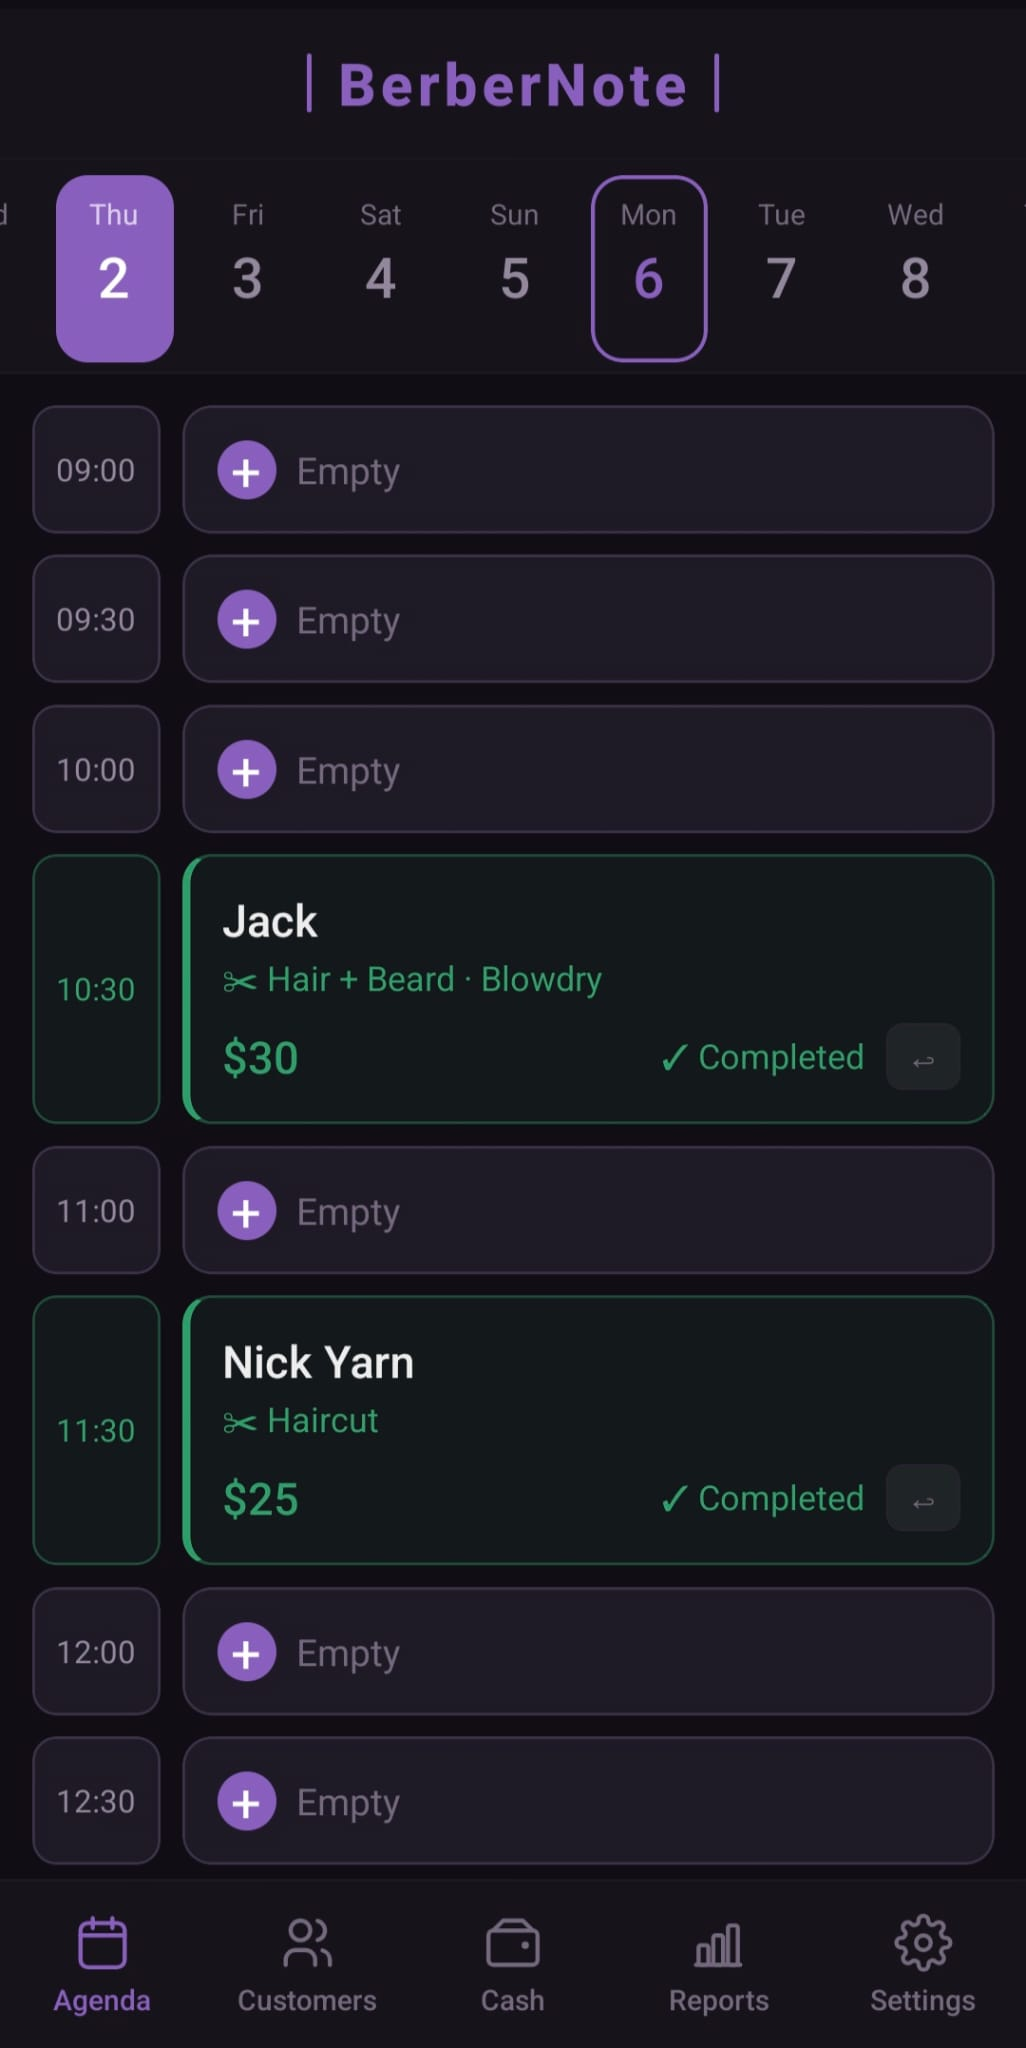
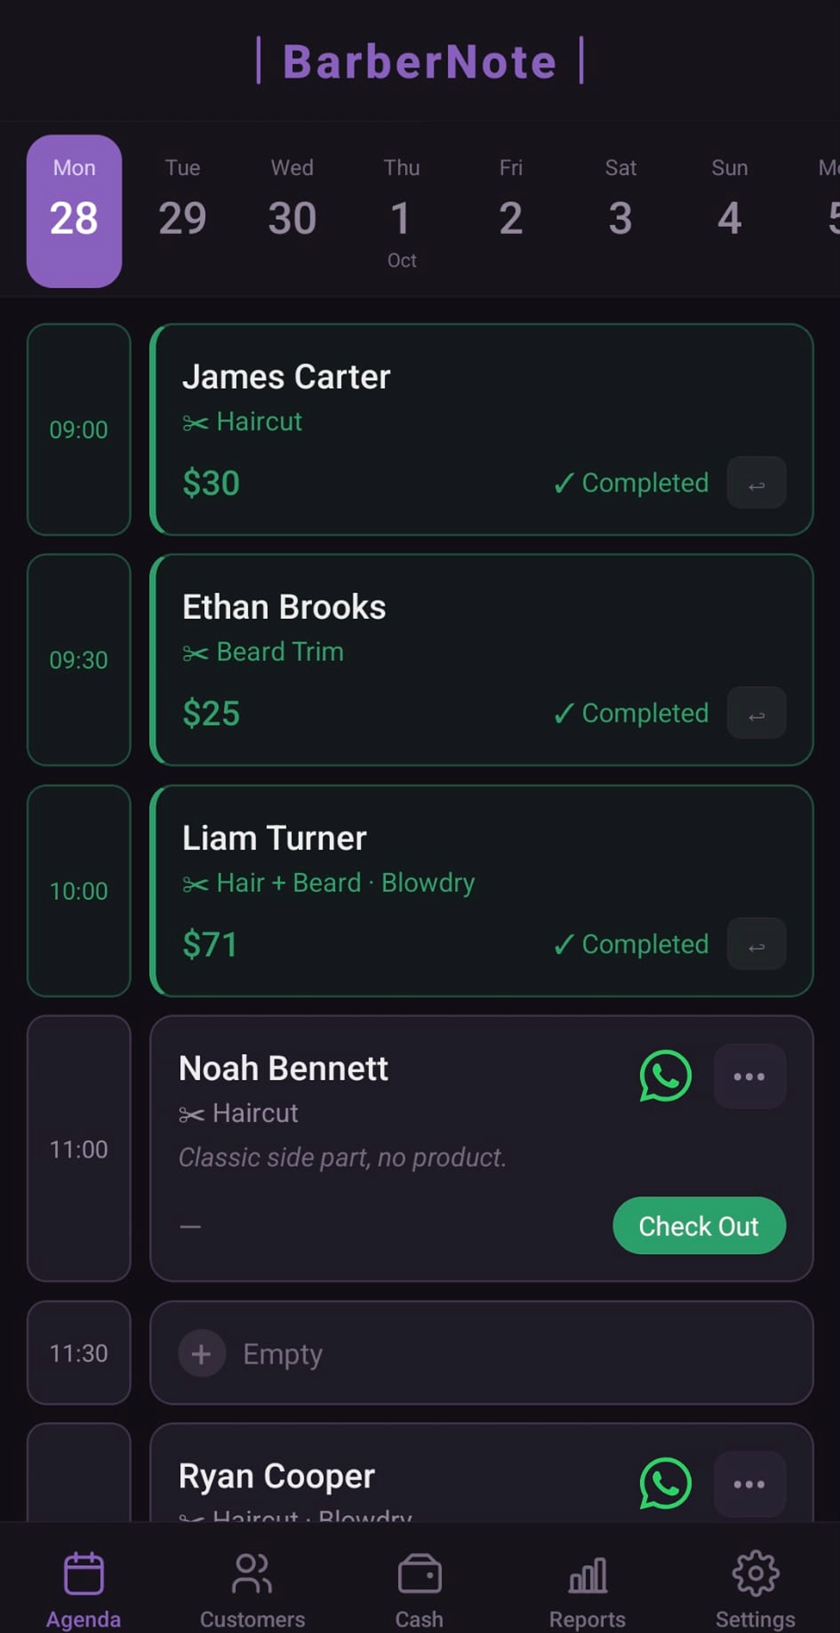
BarberNote page: refresh screenshots, update copy for 1.3
- New app screenshots (agenda, checkout, customers, cash, reports with monthly income chart)
- 15 -> 18 languages on home page
- Unlimited services with own price/duration, WhatsApp or SMS, call from agenda, per-day working hours, monthly income chart
- Removed 90-minute appointment cap from page and support FAQ

Claude-Session: https://claude.ai/code/session_01H7cTTGdX3x2RATAL4734Xr

diff --git a/barbernote/index.html b/barbernote/index.html
@@ -4,7 +4,7 @@
   <meta charset="UTF-8" />
   <meta name="viewport" content="width=device-width, initial-scale=1.0" />
   <title>BarberNote — Your Barbershop, Organized</title>
-  <meta name="description" content="BarberNote is the daily companion for independent barbers — appointments, customers, cash, and reports that work offline, plus an optional online booking link for your clients." />
+  <meta name="description" content="BarberNote is the daily companion for independent barbers — appointments, customers, cash, and reports that work offline in 18 languages, plus an optional online booking link for your clients." />
   <link rel="preconnect" href="https://fonts.googleapis.com" />
   <link rel="preconnect" href="https://fonts.gstatic.com" crossorigin />
   <link href="https://fonts.googleapis.com/css2?family=Syne:wght@400;600;700;800&family=DM+Sans:ital,wght@0,300;0,400;0,500;1,300&display=swap" rel="stylesheet" />
@@ -151,7 +151,7 @@
       </div>
     </div>
     <div class="hero-shot">
-      <img src="/barbernote/screens/screen-agenda.png" alt="BarberNote agenda screen" />
+      <img src="/barbernote/screens/screen-agenda.png?v=20261102" alt="BarberNote agenda screen" />
     </div>
   </section>
 
@@ -163,18 +163,18 @@
       <div class="feature-text">
         <span class="feature-icon">📅</span>
         <div class="feature-title">Agenda that just works</div>
-        <p class="feature-desc">Scroll through a full year, book appointments in seconds, and check customers out with multiple services, product sales, and tips — all from one screen.</p>
+        <p class="feature-desc">Scroll through a full year, book appointments in seconds, and check customers out with multiple services, product sales, and tips — all from one screen. Add as many services as you like, each with its own price and duration.</p>
         <ul class="feature-list">
           <li>Choose a 15- or 30-minute booking grid</li>
-          <li>Set each appointment from 15 to 90 minutes</li>
+          <li>Appointment length follows your services, however long each one takes</li>
           <li>Multi-service checkout in one tap</li>
           <li>Product sales tracked alongside services</li>
           <li>Cash or card, tips included</li>
-          <li>One-tap WhatsApp reminder to customers</li>
+          <li>One-tap WhatsApp or SMS reminder, or call the customer straight from the agenda</li>
         </ul>
       </div>
       <div class="feature-shot">
-        <img src="/barbernote/screens/screen-checkout.png" alt="BarberNote checkout screen" />
+        <img src="/barbernote/screens/screen-checkout.png?v=20261102" alt="BarberNote checkout screen" />
       </div>
     </div>
 
@@ -190,7 +190,7 @@
         </ul>
       </div>
       <div class="feature-shot">
-        <img src="/barbernote/screens/screen-customers.png" alt="BarberNote customers screen" />
+        <img src="/barbernote/screens/screen-customers.png?v=20261102" alt="BarberNote customers screen" />
       </div>
     </div>
 
@@ -206,7 +206,7 @@
         </ul>
       </div>
       <div class="feature-shot">
-        <img src="/barbernote/screens/screen-cash.png" alt="BarberNote cash screen" />
+        <img src="/barbernote/screens/screen-cash.png?v=20261102" alt="BarberNote cash screen" />
       </div>
     </div>
 
@@ -217,12 +217,13 @@
         <p class="feature-desc">Clear KPIs for income, tips, expenses, and net profit — with breakdowns you can actually use to make decisions about your shop.</p>
         <ul class="feature-list">
           <li>Daily, weekly, monthly, custom ranges</li>
+          <li>Monthly income chart with your average, so you see where the year is heading</li>
           <li>One-tap backup — send it to yourself, restore anytime</li>
           <li>Agenda, customers, cash and reports work offline</li>
         </ul>
       </div>
       <div class="feature-shot">
-        <img src="/barbernote/screens/screen-reports.png" alt="BarberNote reports screen" />
+        <img src="/barbernote/screens/screen-reports.png?v=20261102" alt="BarberNote reports screen" />
       </div>
     </div>
   </section>
@@ -239,7 +240,7 @@
           <p class="feature-desc">Get a personal link like book.elolabs.app/b/your-shop and share it on Instagram, WhatsApp or as a QR code in your shop. Clients open it in their browser, see your free times and book — no app to download, no account to create.</p>
           <ul class="feature-list">
             <li>Bookings land straight in your agenda, with a notification</li>
-            <li>Clients only see times that are free in your agenda</li>
+            <li>Clients only see times that are free in your agenda, within the working hours you set for each day</li>
             <li>Choose which clients can book instantly and which need your approval</li>
             <li>Clients can view or cancel their own booking from their link</li>
             <li>Your page in 18 languages, in your theme color</li>

diff --git a/index.html b/index.html
@@ -192,8 +192,8 @@
             <div class="app-icon" style="background:#0f0f0f;"><img src="/barbernote/screens/icon.png" alt="BarberNote" /></div>
             <div><div class="app-name">BarberNote <span class="new-badge" style="background:#D94040;">NEW</span></div><div class="app-category">Business · Free + Pro</div></div>
           </div>
-          <p class="app-desc">The daily companion for independent barbers. Manage appointments, track customers, log cash and expenses, and see your real profit — all offline, in 15 languages.</p>
-          <div class="app-tags"><span class="tag" style="background:#fdecec;color:#a83232;border-color:#f3b8b8;">Appointment Scheduling</span><span class="tag" style="background:#fdecec;color:#a83232;border-color:#f3b8b8;">Customer Book</span><span class="tag" style="background:#fdecec;color:#a83232;border-color:#f3b8b8;">15 Languages</span><span class="tag" style="background:#fdecec;color:#a83232;border-color:#f3b8b8;">Android &amp; iOS</span></div>
+          <p class="app-desc">The daily companion for independent barbers. Manage appointments, track customers, log cash and expenses, and see your real profit — all offline, in 18 languages.</p>
+          <div class="app-tags"><span class="tag" style="background:#fdecec;color:#a83232;border-color:#f3b8b8;">Appointment Scheduling</span><span class="tag" style="background:#fdecec;color:#a83232;border-color:#f3b8b8;">Customer Book</span><span class="tag" style="background:#fdecec;color:#a83232;border-color:#f3b8b8;">18 Languages</span><span class="tag" style="background:#fdecec;color:#a83232;border-color:#f3b8b8;">Android &amp; iOS</span></div>
           <a href="/barbernote" class="app-link" style="color:#D94040;">Learn more →</a>
         </div>
 

diff --git a/barbernote/support/index.html b/barbernote/support/index.html
@@ -197,7 +197,7 @@
 
       <details>
         <summary>Can I book appointments every 15 minutes?</summary>
-        <p>Yes. Go to Settings → Appointment interval and choose 15 or 30 minutes — whichever suits your shop. You can also set the length of each individual appointment, from 15 up to 90 minutes, so longer jobs take up the right amount of space in your agenda.</p>
+        <p>Yes. Go to Settings → Appointment interval and choose 15 or 30 minutes — whichever suits your shop. The length of each appointment follows your services, so longer jobs take up the right amount of space in your agenda.</p>
       </details>
 
       <details>
@@ -214,7 +214,7 @@
 
       <details>
         <summary>What is Online booking?</summary>
-        <p>With the Pro + Online subscription you get your own booking link (for example book.elolabs.app/b/your-shop). Share it on Instagram, WhatsApp or as a QR code. Clients open it in their browser, see your free times and book — no app to install, no account to create. The booking lands in your agenda and you get a notification. There's no commission or fee per booking.</p>
+        <p>With the Pro + Online subscription you get your own booking link (for example book.elolabs.app/b/your-shop). Share it on Instagram, WhatsApp or as a QR code. Clients open it in their browser, see your free times, day by day within your working hours, and book — no app to install, no account to create. The booking lands in your agenda and you get a notification. There's no commission or fee per booking.</p>
         <p>Online booking works on both iPhone and Android. To set it up, go to Settings → Online booking.</p>
       </details>
 
